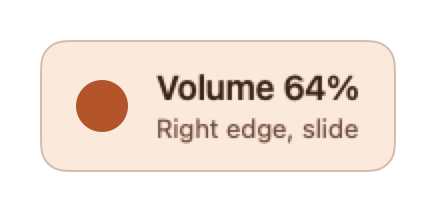
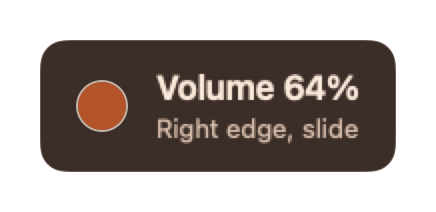
design: batch 23 critique (passes); plate copy rulings; skeleton plate shots re-made dark

diff --git a/docs/design/critiques/batch-23.md b/docs/design/critiques/batch-23.md
@@ -1,0 +1,50 @@
+# Batch 23 critique (overlay polish)
+
+Verdict: ready. All 11 critique-18 items are fixed: the 3 must-fix, the 3 should-fix and the 5 design answers. The plates now sit in the gutter. The display check stacks under the level plate along the left edge, 26 pt clear of the window, and the Volume plate is 106 pt clear. The plate is one dark component: all 30 isolated light/dark pairs are byte-identical (`cmp`). Dry run shows no level plate, and the timings are proven on the injected clock. The pixels match the tokens (below). Every string matches BRIEF character for character. There are no new must-fix items, and the two should-fix items below are housekeeping.
+
+Pixel samples (2×, `plate-run-volume-light`, `plate-would-set-light`): fill (59,45,39) over white, (39,25,19) over black, which is `#2A1B15` at 0.92. Edge: 1 px (0.5 pt) of (91,74,64) over black, where `rgba(255,230,210,.24)` predicts (91,74,65). Rim: 2 px (1 pt) of (193,177,165), which is `#FBEADB` at 70%, at 6.3:1 against the plate (the accent alone is 2.7:1). The contact is 26 pt overall. The dry-run mark is a 2 pt accent ring with the rim outside it. The rejection mark is unrimmed `ink2`.
+
+## Critique-18 items: status
+
+| Item | Status | Evidence |
+|---|---|---|
+| M1 Level plate and check off the text | FIXED | `batch-23/overlay-level-check-stacked-*`, `batch-18/overlay-docked-level-check-*`: the check is stacked below the level plate in the left gutter, with its right edge 26 pt from the window. Tests: `aPlateNeverCoversTheFocusedText`, `displayCheckStacksAlongTheDockedEdge`. |
+| M2 One plate appearance | FIXED | `plate-component-*` is dark. All 30 `plate-*` pairs are byte-identical, and the fill sampled as above. |
+| M3 Dry-run suppression and timings | FIXED | `batch-23/overlay-dryrun-brightness-*`: only "Would set Brightness" / "Left edge, slide" shows, although the feed also offered a check. `overlay-level-test-mode-off-*` has no Test Mode dot. `done-batch-23.md`: `timingsAreBRIEFs` (1.2 / 0.6 / 0.2 / 15), `fadesAfter15sUnanswered`, `asksAtMostThreeTimes`, `noLevelPlateInDryRun`, present in `OverlayBehaviourTests.swift`. For the HUD, the chief's addendum: `hud.show` is called only on the perform path, and `testModeRunsNothingButReportsAndTicks` asserts that nothing is performed. |
+| S1 Volume plate overlaps the window | FIXED | `overlay-light-document-*`, `batch-18/overlay-docked-test-mode-*`: the Volume plate is 106 pt clear. The hold plate's top is exactly 8 pt below the window. |
+| S2 Menu bar cropped | FIXED | Every docked shot has the menu-bar strip. The glyph shows its dot with Test Mode on (`overlay-light-document`, `overlay-dryrun-brightness`) and no dot with it off (`overlay-level-check-stacked`, `overlay-level-test-mode-off`). There's no pill. |
+| S3 No dark document | FIXED | `batch-23/overlay-dark-document-*`. The plates stay in the gutter, so the edge-over-black proof comes from the isolated shots' black half, as measured above. |
+| R1 Always dark plus 0.5 pt edge | FIXED | Fill and edge measured above. The edge is always drawn; see Q1. |
+| R2 Contact rim | FIXED | `plate-run-volume-*`, `plate-would-set-*`, `plate-hold-*`: rim measured on the filled contact and outside the dry-run ring. |
+| R3 Bare trigger name | FIXED | `plate-run-trigger-*`: "Play/Pause" / "Bottom edge, double-tap". |
+| R4 Display check exempt from 17/13 | FIXED | `plate-display-check-*`: a 13 semibold question with two `ink`-wash buttons and no accent. |
+| R5 Keyboard plate | FIXED | `plate-level-keyboard-*` and `overlay-level-test-mode-off-*`: "Keyboard 60%" / "Built-in keyboard". The bar is filled to 60% (171 of 287 px). |
+
+Counts: 11 FIXED, 0 PARTIAL, 0 OPEN, 0 NOT SHOT.
+
+## New must fix
+
+None.
+
+## New should fix
+
+1. **The committed skeleton plate shots are still pale.** On `HEAD`, the centre pixel of `docs/design/build-shots/skeleton/plate-light.png` is (251,231,216), the old pale plate. The regenerated dark versions sit uncommitted in the working tree, because the builder restored them with `git checkout` (it didn't own that path). `main` shows two plate appearances again (M2). Fix: commit the regenerated `skeleton/plate-*.png` from a session that owns that glob, before the batch-24 onboarding review.
+2. **`plate-component-*` is the only isolated shot without the black-document half.** It's drawn on a single cream ground, so the component sheet never shows the edge doing its job. Fix: render it over the same white/black split as the other 29.
+
+## Matches BRIEF
+
+- Copy: all 16 rejection rows, the five "Would" lines, the three hold lines, both level plates and the display check are exact. The decimal rule holds, and rejections with no measure stop after the reason.
+- Bone 3: "Play/Pause" uses the catalog spelling. Bone 4: a filled, rimmed accent disc against a struck `ink2` circle, and recognized stays louder.
+- Bone 8: the glyph dot is the only Test Mode marker. Bone 9: docked, on-screen, clear of the text, 16 pt in from the edge. The layout matches S8's gutter and D's placements.
+- Level bars read true (40% and 60% of the track). One hue: the accent appears only on contacts and level fills.
+
+## Questions for design
+
+1. **The edge is always drawn, not only over dark documents.** Over white it measures (106,89,80): one device pixel lighter than the plate (59,45,39), so it reads as a softened silhouette rather than a visible outline. The plate can't know what's behind it. I'd accept that. Confirm, or say it must be gated on the backdrop.
+2. **Should parameterized run plates drop the verb as well?** The plates read "Opened Quillpad", "Pressed ⇧⌘ 4" and "Ran <name>". Ruling 2 covered only the bare trigger. I'd keep these verbs: a bare "Quillpad" or "⇧⌘ 4" doesn't say anything happened, and "Would open" / "Opened" pair cleanly. Confirm.
+3. **The stacked check is wider than the level plate (about 257 pt vs 220 pt), with their left edges aligned.** S8 also uses two widths, so I'd leave it. Say if the stack should share one width.
+
+## Design answers (chief, 2026-11-07)
+1. **An always-drawn edge:** accepted. The plate can't know its backdrop, and over white the edge just softens the silhouette. Don't gate it.
+2. **Parameterised run plates keep their verb:** "Opened Quillpad", "Pressed ⇧⌘ 4", "Ran <name>". This pairs with dry run's "Would open / Would press / Would run". Plain triggers stay bare ("Play/Pause"), because the action name already says what happened. Added to BRIEF.
+3. **Stack widths:** leave them. Two widths with aligned leading edges is fine (S8 does the same).

diff --git a/docs/BRIEF.md b/docs/BRIEF.md
@@ -116,7 +116,7 @@ The full text and evidence are in `docs/design/bones.md` and `docs/design/canvas
    - **One plate component** is shared by the overlay and the onboarding feedback: same radius, same 17/13 type pair, same inset. In the render, C and D look like two products; don't build that.
    - **The plate is always dark** (the espresso plate of renders D and S8) in both system appearances. Over dark documents it gets a 0.5 pt light edge (`rgba(255,230,210,.24)`).
    - **Contacts on a plate** (filled accent, or the dry-run ring) get a 1 pt cream rim (`#FBEADB` at 70%) for ≥3:1, like the app icon's dot. It's a stroke, never a halo.
-   - **Run-mode trigger plates** show the bare action name ("Play/Pause"). The display check is the one plate exempt from the 17/13 pair.
+   - **Run-mode trigger plates** show the bare action name ("Play/Pause"). Actions with a parameter keep a past-tense verb plus the object ("Opened Quillpad", "Pressed ⇧⌘ 4", "Ran <name>"), pairing with dry run's "Would …". The plate edge is always drawn; it isn't gated on the backdrop. The display check is the one plate exempt from the 17/13 pair.
 10. **The menu-bar popover** (not a plain menu):
     - **Top half:** a live mini mirror (zones of the active profile plus the last touch where it landed), profile chips, and **Enabled** and **Test Mode** switches.
     - **Profile chips don't select anything.** Profiles follow the frontmost app automatically. The chip of the profile in effect is filled; the others are outlined. Clicking a chip opens Settings on that profile's tab. If the frontmost app has its own profile, its chip comes first.
